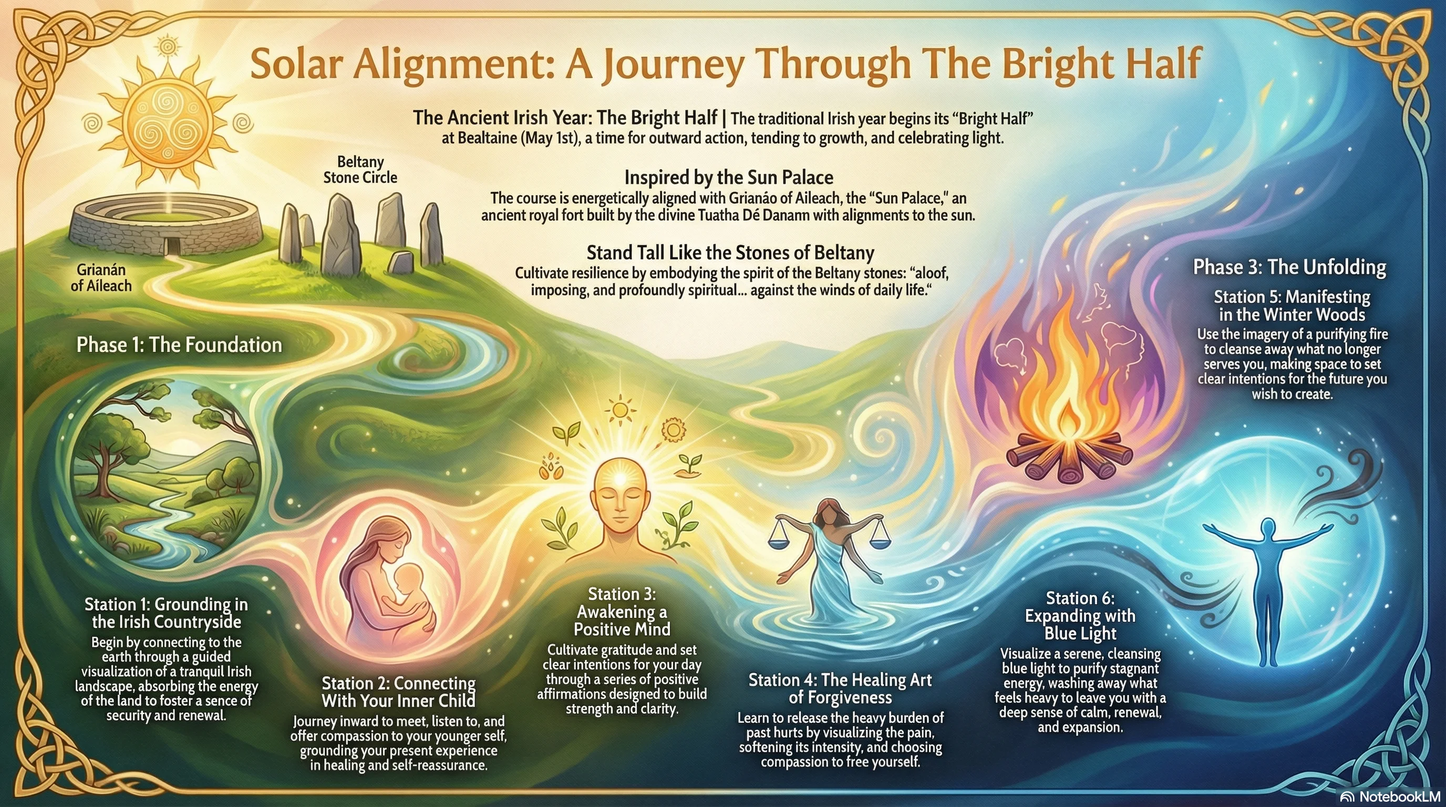
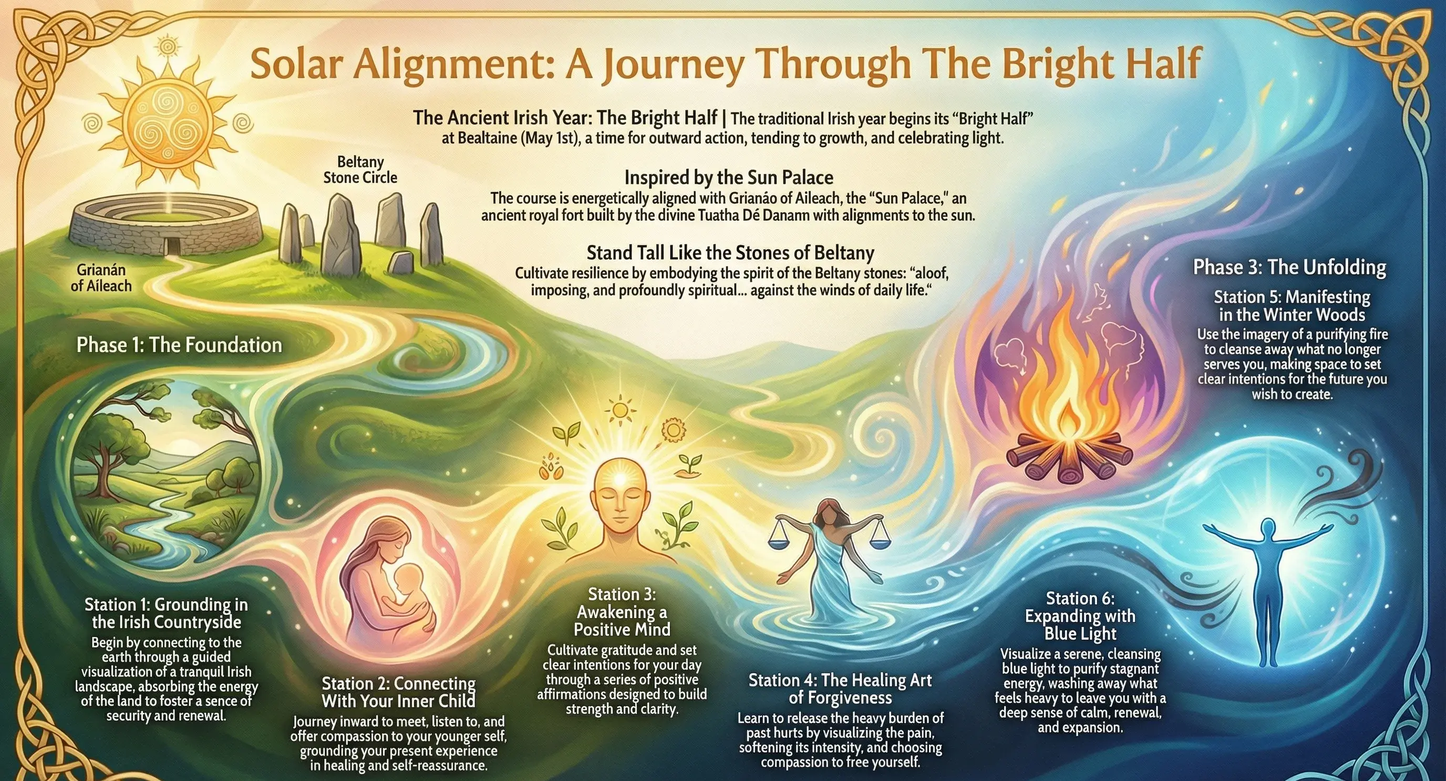
Remove watermarks from landscape images, shorten cover holder
- Crop 50px from bottom of all 3 landscape journey maps
- Adjust cover image aspect ratio from 9/16 to 9/14 (shorter)

diff --git a/src/components/courses/CoursesList.tsx b/src/components/courses/CoursesList.tsx
@@ -115,7 +115,7 @@ function CourseCard({ course, index, reverse, isLast }: CourseCardProps) {
             style={{ transitionDelay: '200ms' }}
           >
             {/* Image container */}
-            <div className="relative aspect-[9/16]">
+            <div className="relative aspect-[9/14]">
               <div className="relative w-full h-full overflow-hidden rounded-2xl">
                 <Image
                   src={course.image}
